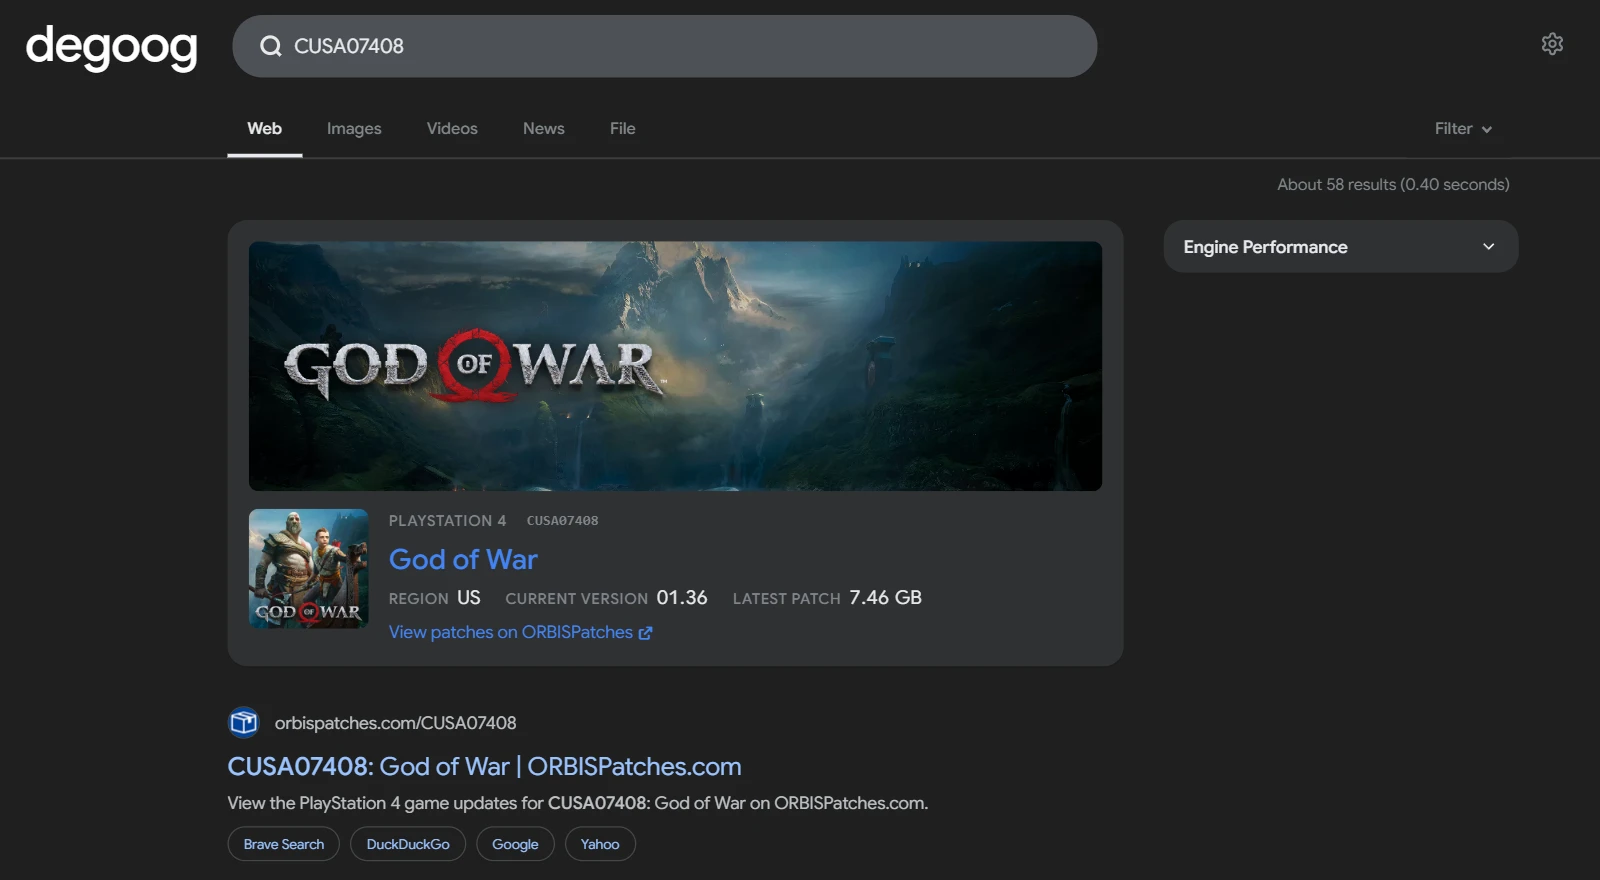
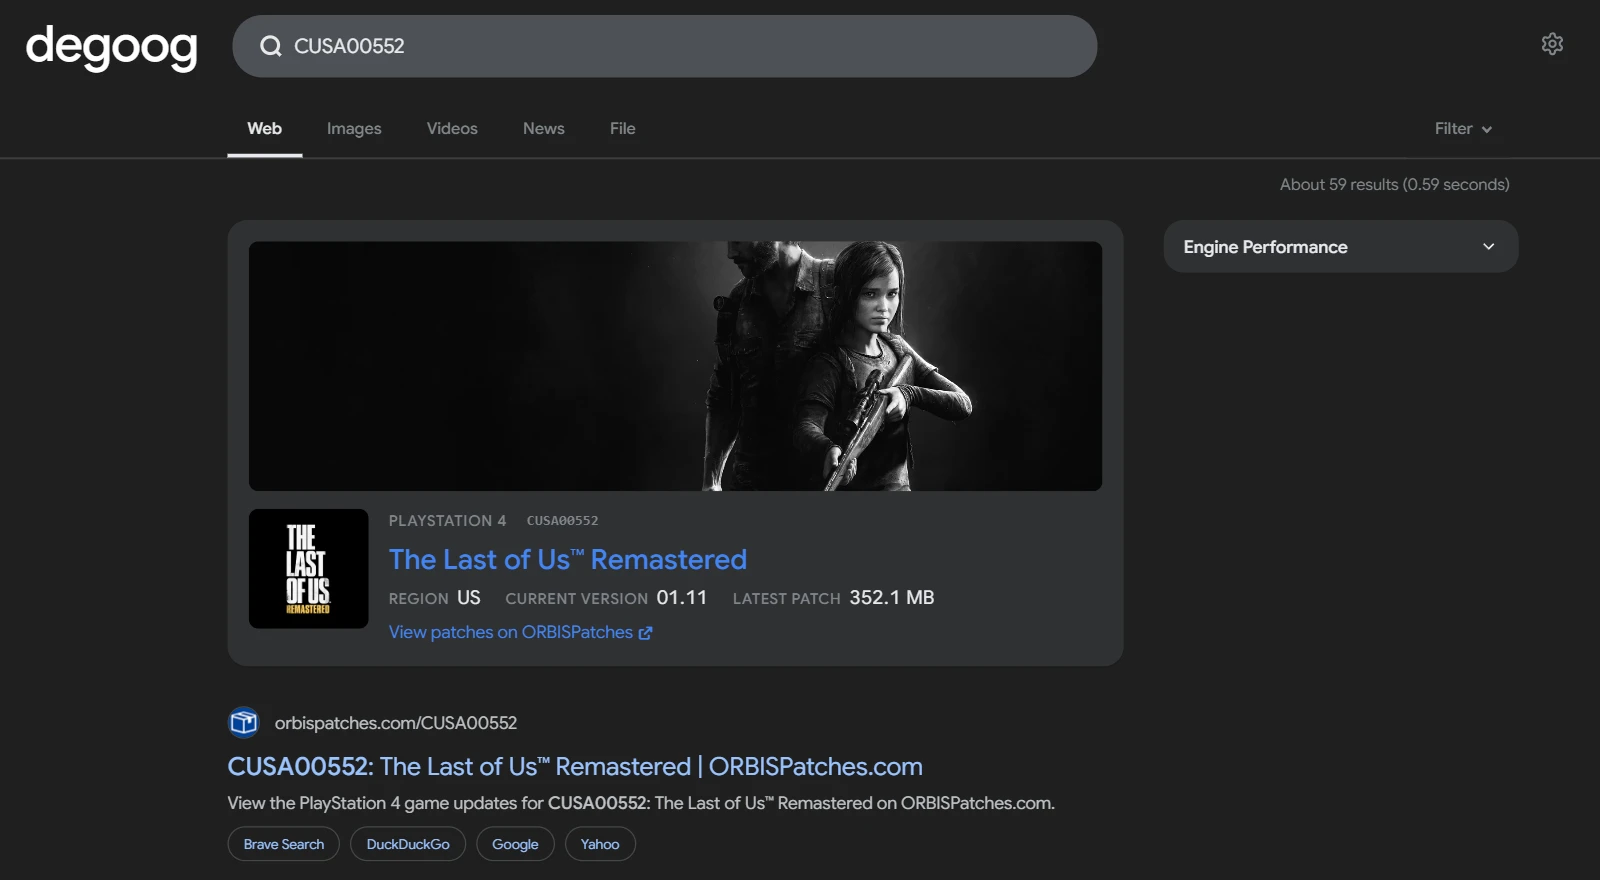
docs(orbis-patches): retake screenshots with CUSA00552

diff --git a/plugins/orbis-patches/README.md b/plugins/orbis-patches/README.md
@@ -3,7 +3,7 @@
 Looks up PlayStation 4 (Orbis) title IDs on [ORBISPatches](https://orbispatches.com). Search for a title ID such as `CUSA04762` and the panel shows the game's name, icon and background art with its logo when it has one, its region, current version and the size of the latest patch, with a link to the title's page on ORBISPatches. Click the icon, background or logo to open the full image in a new tab.
 
 <div align="center">
-    <img width="800" alt="Orbis Patches panel showing God of War with its logo in dark mode" src="./screenshots/1.webp" />
+    <img width="800" alt="Orbis Patches panel showing The Last of Us Remastered in dark mode" src="./screenshots/1.webp" />
 </div>
 
 ## Triggers
